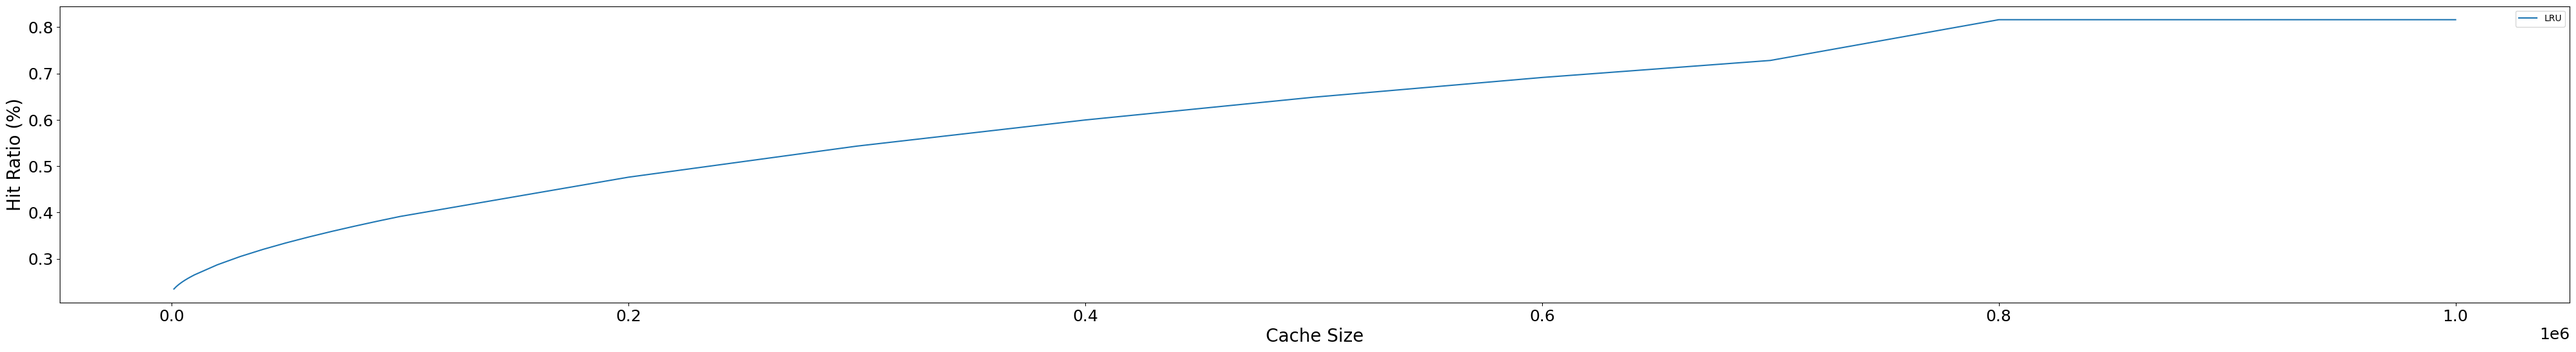
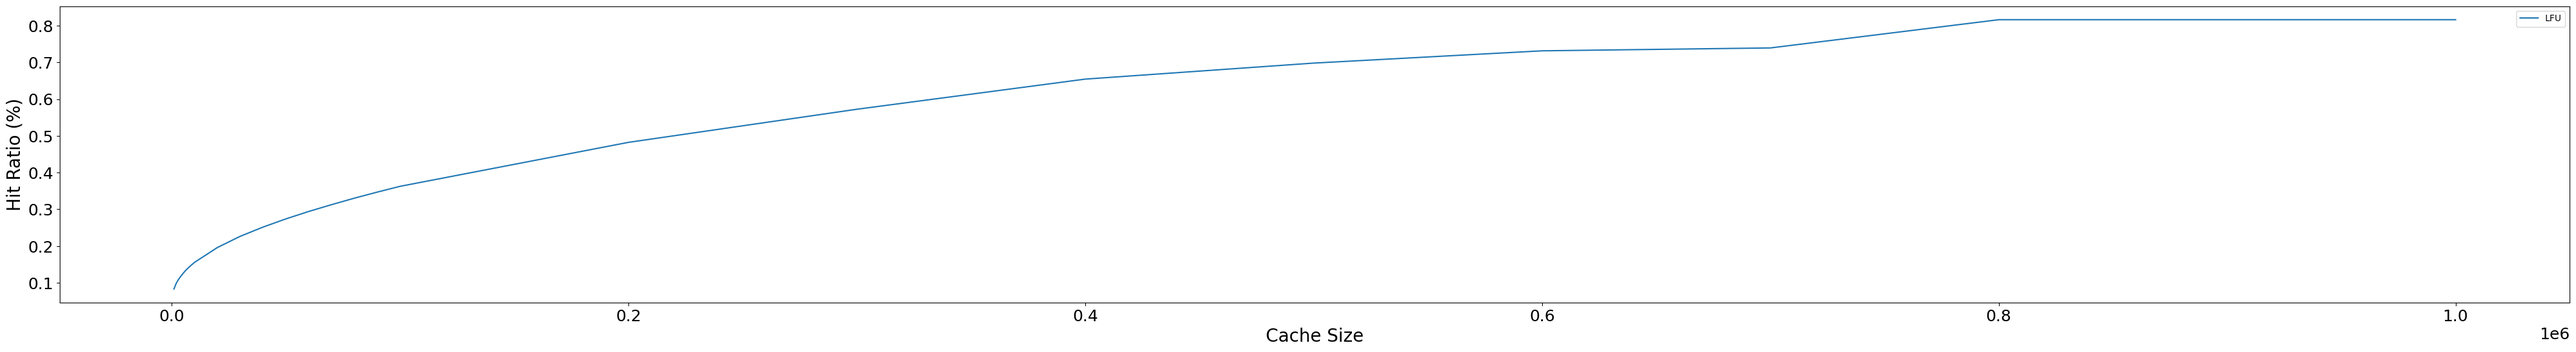
bug fix in hit ratio graph generation

diff --git a/graphs.py b/graphs.py
@@ -2,18 +2,6 @@ import os.path
 import matplotlib.pyplot as plt
 
 
-def generate_single_graph(path,title,trace,policy,xlabel,ylabel,xvalues,yvalues):
-    plt.figure(figsize=(1.8 * len(xvalues), 6))
-    plt.rc('xtick', labelsize=18)
-    plt.rc('ytick', labelsize=18)
-    plt.plot(xvalues, yvalues, label=policy)
-    plt.xlabel(xlabel,fontsize=20)
-    plt.ylabel(ylabel, fontsize=20)
-    plt.legend()
-    plt.savefig(os.path.join(path,trace+"-"+title+".png"), bbox_inches='tight')
-    plt.close()
-
-
 def generate_weighted_graph(path,title,trace,policy,avoid,xlabel,ylabel,xvalues,aggresults,technologies):
     plt.figure(figsize=(1.8 * len(xvalues), 6))
     plt.rc('xtick', labelsize=18)
@@ -25,17 +13,34 @@ def generate_weighted_graph(path,title,trace,policy,avoid,xlabel,ylabel,xvalues,
     plt.xlabel(xlabel,fontsize=20)
     plt.ylabel(ylabel, fontsize=20)
     plt.legend()
-    #plt.xscale("log")
     plt.savefig(os.path.join(path,trace+"-"+title+".png"), bbox_inches='tight')
+    plt.close()
+
+
+def init_hitrate_graph(numvalues):
+    plt.figure(figsize=(1.5 * numvalues, 6))
+    plt.rc('xtick', labelsize=18)
+    plt.rc('ytick', labelsize=18)
+
+def add_to_hitrate_graph(policy, xvalues, yvalues):
+    plt.plot(xvalues, yvalues, label=policy)
+
+def finish_hitrate_graph(path, trace):
+    plt.xlabel("Cache Size",fontsize=20)
+    plt.ylabel("Hit Ratio (%)", fontsize=20)
+    plt.legend()
+    plt.savefig(os.path.join(path,trace+"-hit_ratio.png"), bbox_inches='tight')
     plt.close()
 
 
 def generate_hit_graph(path, aggresults):
     for trace in aggresults.keys():
+        init_hitrate_graph(len((list(aggresults[trace].items()))[0][1].keys()))
         for policy in aggresults[trace].keys():
             sizes = aggresults[trace][policy].keys()
             hitratios = list(map(lambda ht: ht["hit ratio"], aggresults[trace][policy].values()))
-            generate_single_graph(path, "hit_ratio", trace, policy, "Cache Size", "Hit Ratio (%)", sizes, hitratios)
+            add_to_hitrate_graph(policy,sizes,hitratios)
+        finish_hitrate_graph(path, trace)
 
 
 def generate_all_weighted_graphs(path, aggresults, technologies):

diff --git a/cacheck.py b/cacheck.py
@@ -12,7 +12,7 @@ import graphs
 parser = argparse.ArgumentParser()
 parser.add_argument('-o', '--outfile', action='store', default='results.csv')
 parser.add_argument('-p', '--path', action='store', default='graphs')
-parser.add_argument('-t', '--tracesdir', action='store', default='C:\\Users\\royfr\\PycharmProjects\\TraceGenerator\\zipf_traces\\')
+parser.add_argument('-t', '--tracesdir', action='store', default='C:\\Users\\user\\PycharmProjects\\TraceGenerator\\zipf_traces\\')
 args = parser.parse_args()
 
 cache_technologies = [CostModel("DRAM",0.5), CostModel("SSD", 3)]
